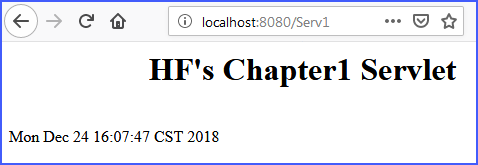
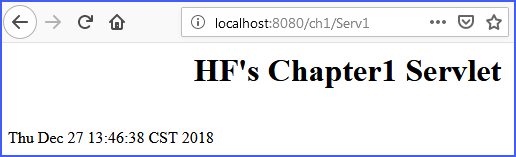
完善ch1的例子。From PC-JSP

Changed region(s): [[0.0, 0.0, 1.0, 0.9936], [0.2929, 0.3567, 0.9665, 0.5605], [0.0, 0.7898, 0.4686, 0.9172]]

diff --git a/jsp.Learning/notes/JSP.Learning.md b/jsp.Learning/notes/JSP.Learning.md
@@ -47,32 +47,45 @@ $ javac -classpath "c:\Program Files\Apache Software Foundation\Tomcat 9.0\lib\s
 ~~~
 顺利的话，在该目录下会生成一个新文件`Ch1Servlet.class`
 将文件`Ch1Servlet.class`拷贝到下面的文件夹中：
-> C:\Program Files\Apache Software Foundation\Tomcat 9.0\webapps\ROOT\WEB-INF\classes\
+> C:\Program Files\Apache Software Foundation\Tomcat 9.0\webapps\ch1\WEB-INF\classes\
 
-然后编辑文件：
-> C:\Program Files\Apache Software Foundation\Tomcat 9.0\webapps\ROOT\WEB-INF\web.xml
+然后新建文件`web.xml`：
+> C:\Program Files\Apache Software Foundation\Tomcat 9.0\webapps\ch1\WEB-INF\web.xml
 
-在<web-app></web-app>中间代码段的结尾部分，增加如下代码：
+文件`web.xml`的代码：
 ~~~ xml
-<servlet>
-    <servlet-name>Chapter1 Servlet</servlet-name>
-    <servlet-class>Ch1Servlet</servlet-class>
-</servlet>
+<?xml version="1.0" encoding="UTF-8"?>
 
-<servlet-mapping>
-    <servlet-name>Chapter1 Servlet</servlet-name>
-    <url-pattern>/Serv1</url-pattern>
-</servlet-mapping>
+<web-app xmlns="http://java.sun.com/xml/ns/j2ee"
+    xmlns:xsi="http://www.w3.org/2001/XMLSchema-instance"
+    xsi:schemaLocation="http://java.sun.com/xml/ns/j2ee/web-app_2_4.xsd"
+    version="2.4">
+
+	<servlet>
+		<servlet-name>Chapter1 Servlet</servlet-name>
+		<servlet-class>Ch1Servlet</servlet-class>
+	</servlet>
+	
+	<servlet-mapping>
+		<servlet-name>Chapter1 Servlet</servlet-name>
+		<url-pattern>/Serv1</url-pattern>
+	</servlet-mapping>
+
+</web-app>
 ~~~
-全文如图
-![](images/02.png)
+整个目录结构如图：
+![](images/06.png)
+
 此时保证Tomcat服务器是在运行中的，如果已经启动，不用重新启动。
 ![](images/03.png)
 在浏览器中输入地址：
-> http://localhost:8080/Serv1
+> http://localhost:8080/ch1/Serv1
 
 此时应看到程序运行结果
 ![](images/04.png)
 
 ## 备忘
-目录`Apach_home/htdocs`是服务器上所有web应用的根目录。
+* 目录`Apach_home/htdocs`是服务器上所有web应用的根目录。
+
+* JSP中的MVC分工
+![](images/05.png)
